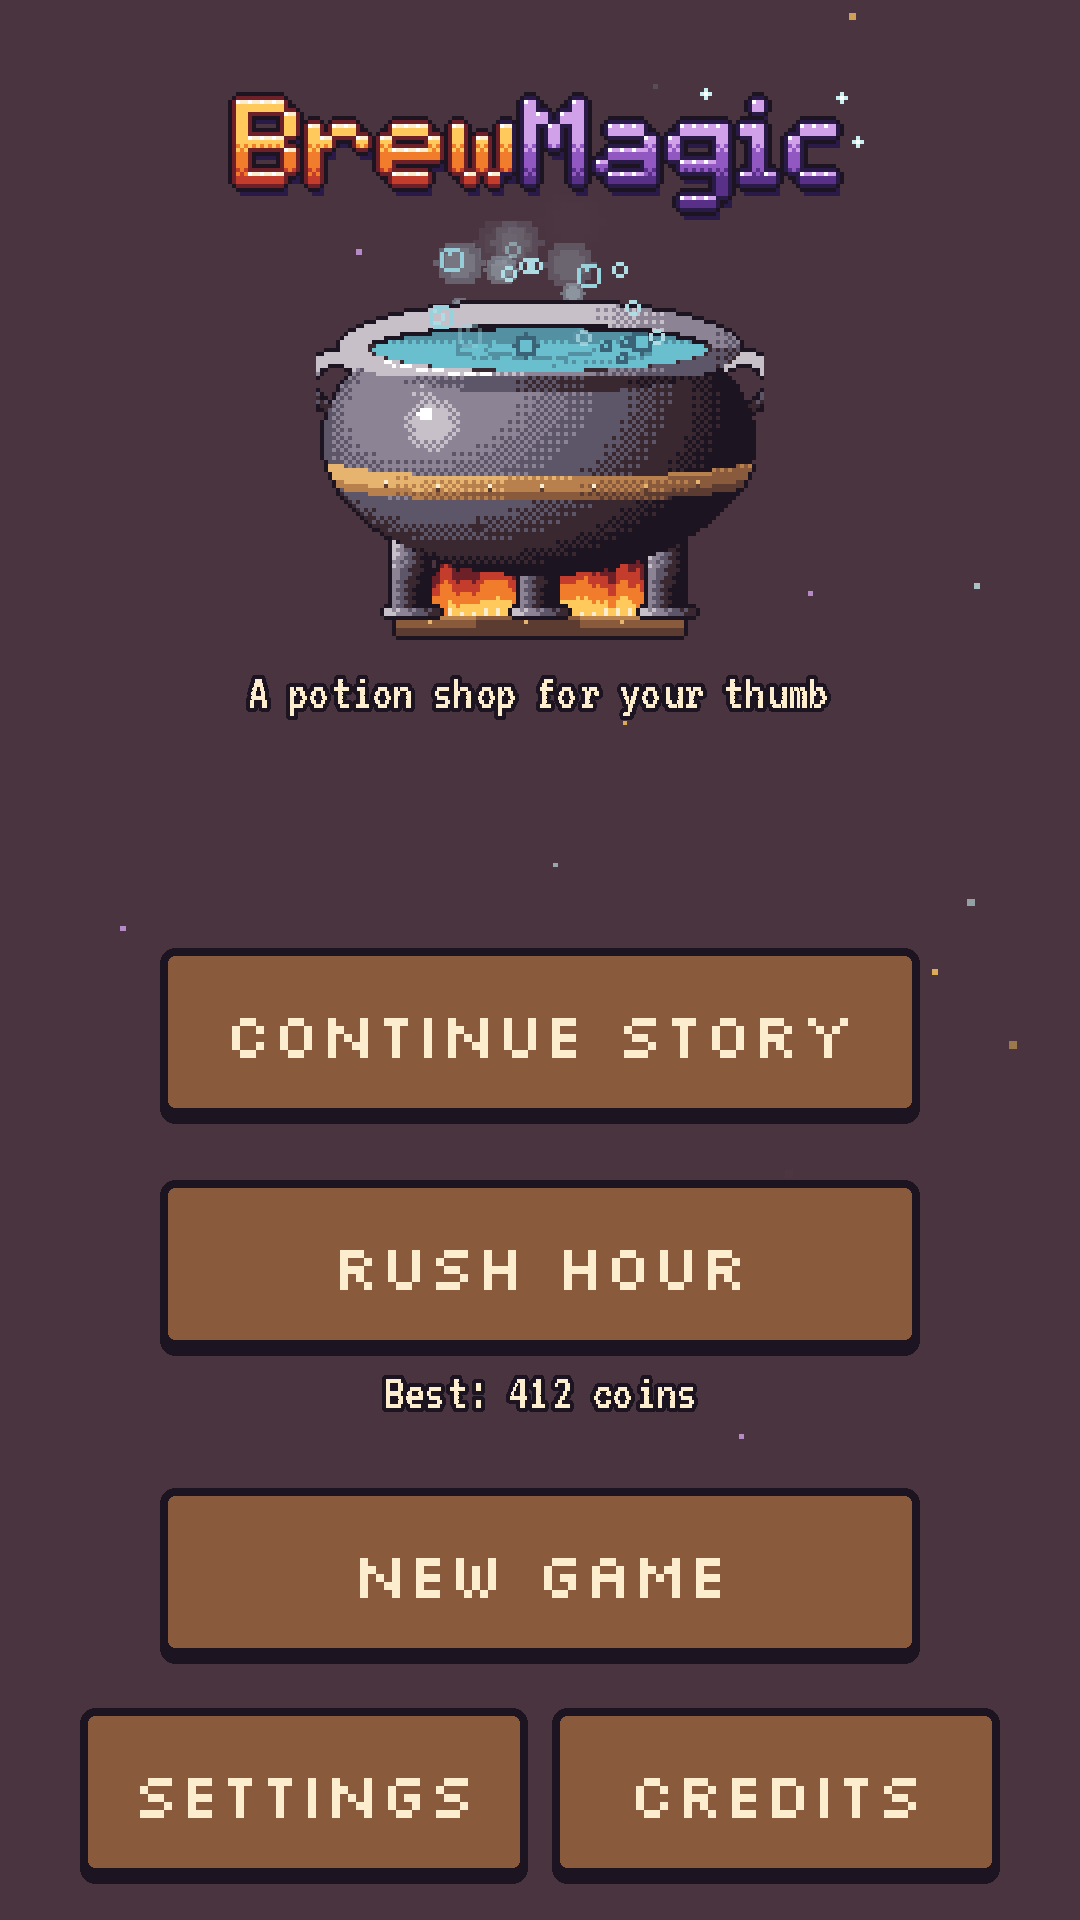
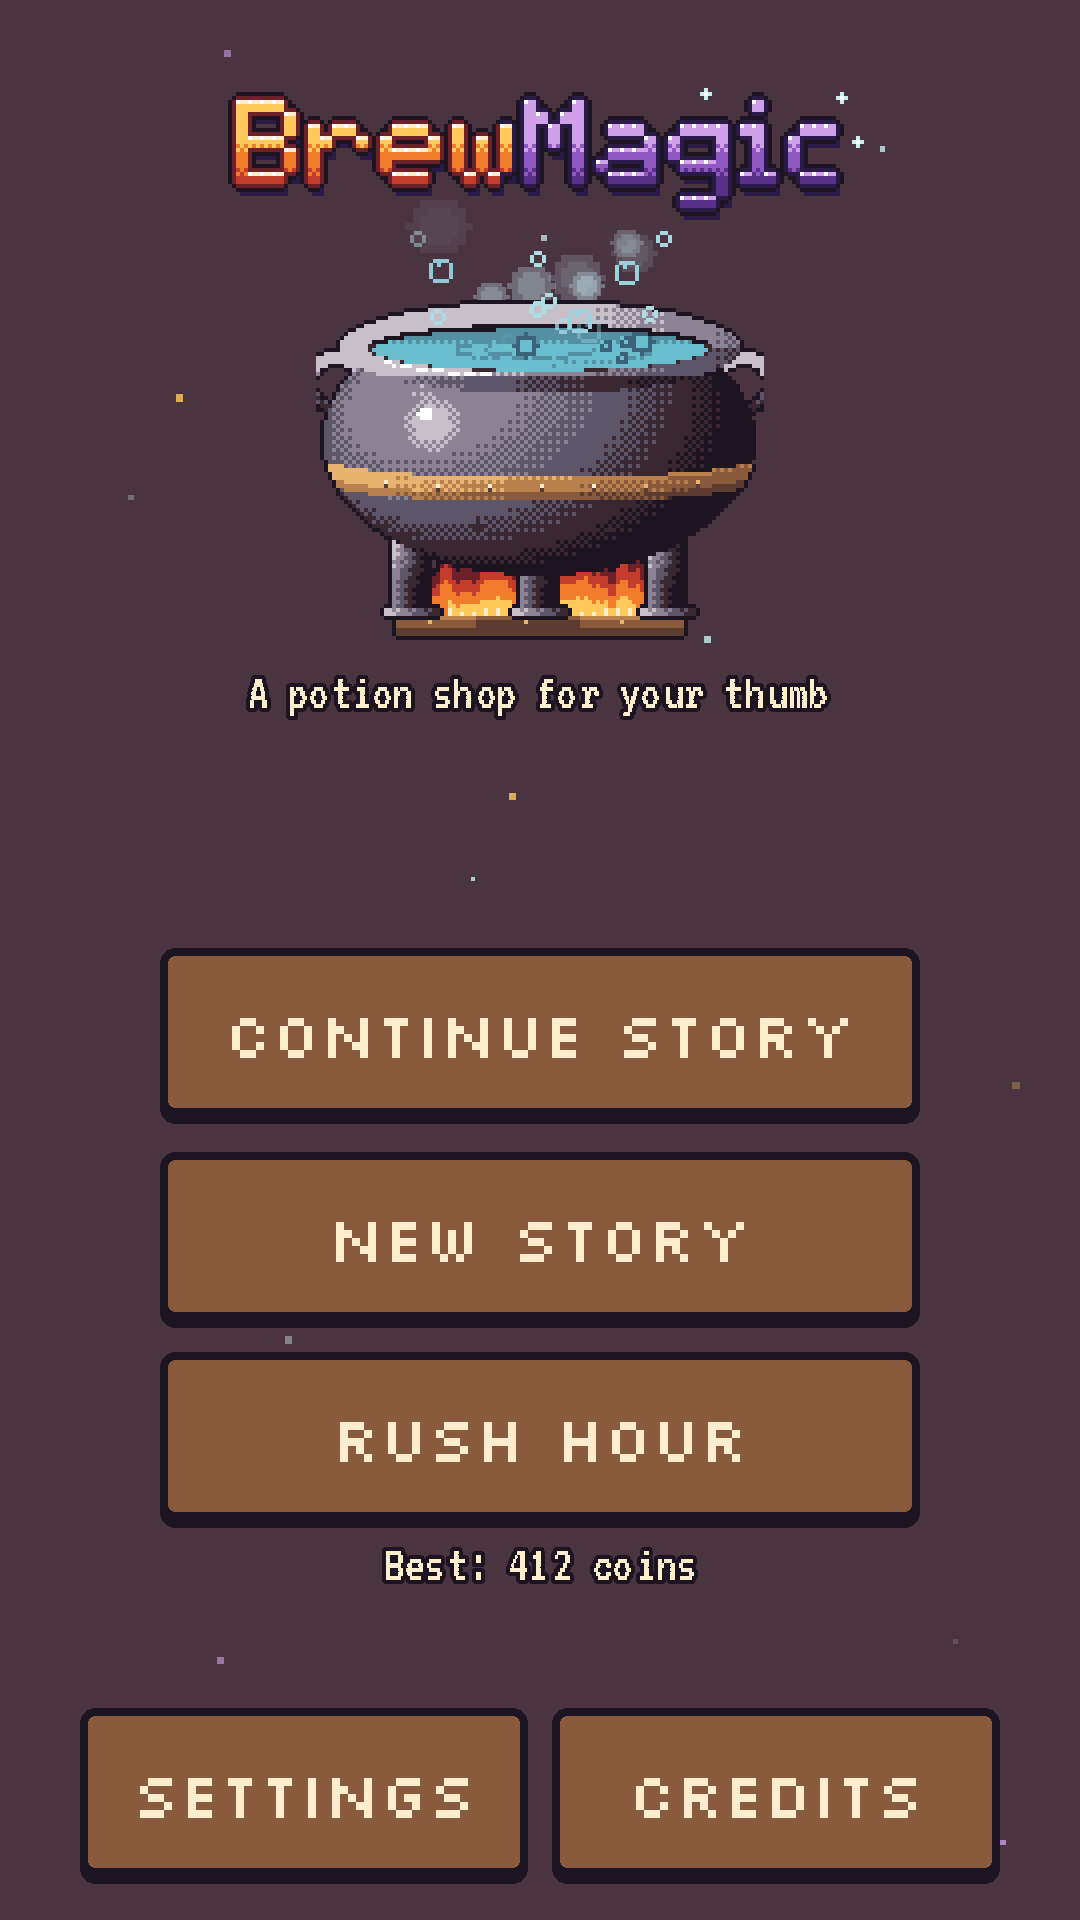
playtest: New story under Continue story, shorter credits, steadier day difficulty
- The title's "New game" reads "New story" and sits right under the
  story button; with no saved story Rush Hour moves up into its place.
- Credits drop the "Pixel art, sounds and music written as code" line.
- Days 3 and 4 played easier than day 2: the Mortar came on day 2 and
  five two-station potions after it, and independent weighted picks
  could draw a day of only easy recipes. The five two-station potions
  now come on day 2 and the Mortar (honeycomb, moonmoss, its upgrade) on
  day 3, and ordinary visitors are picked to bring each day's mean
  stations per customer to Difficulty.target_stations (rising over the
  story and with the level); a test checks no day is easier than the
  one before at a rising level.

Claude-Session: https://claude.ai/code/session_013fELLwf7CcjAy3ZJFqo4CJ

Changed region(s): [[0.1222, 0.5938, 0.8556, 0.875], [0.3972, 0.0938, 0.6111, 0.1875]]

diff --git a/brewmagic/data/SCHEMA.md b/brewmagic/data/SCHEMA.md
@@ -138,7 +138,7 @@ a story beat always pins its request (I13), so a story character's requests need
 | `starting_coins` | int | 0..9999 | **Day 1 only (required there, an error on other days).** |
 | `starting_stock` | object `{ingredient id: int 0..99}` | keys ⊆ ingredients unlocked on day 1 | **Day 1 only (required there, an error on other days).** Missing keys mean 0. |
 | `market` | object `{ingredient id: int 1..999}` | keys == exactly the ingredients with `unlock_day <= day` | **Days >= 2 only (required there, an error on day 1).** Prices in the market screen held the evening *before* this day, so the player shops for this day. The market sells any quantity. |
-| `customers` | array of object | non-empty | In arrival order. An entry with none of `archetype`, `potion`, `request`, `beat`, `lines` (only an optional `when`, e.g. `{}`) is an **ordinary visitor slot**: `Shift.story` fills it at the player's difficulty level with a potion of the day (the day's new potions first, in file order, then picks weighted by `Difficulty.potion_weight`), an ordinary archetype with a request for it and one of those requests (pinned, `Rush.visit`), from a generator seeded by the day and the level. |
+| `customers` | array of object | non-empty | In arrival order. An entry with none of `archetype`, `potion`, `request`, `beat`, `lines` (only an optional `when`, e.g. `{}`) is an **ordinary visitor slot**: `Shift.story` fills it at the player's difficulty level with a potion of the day (first the day's new potions no authored customer of the day asks for, in file order, then picks by `Difficulty.pick_for` that bring the day's mean stations per customer, authored customers included, to `Difficulty.target_stations(level, day)`: 2.4 on day 1, +1 by day 20, +0.5 per level), an ordinary archetype with a request for it and one of those requests (pinned, `Rush.visit`), from a generator seeded by the day and the level. |
 | `customers[].archetype` | string | archetype id | Required on every entry that is not a visitor slot. |
 | `customers[].potion` | string | potion id with `unlock_day <= day` | Required on every entry that is not a visitor slot. |
 | `customers[].request` | string | *optional*, request id | Pins the line. Its `potion` and `archetype` must equal the customer's. Absent: random, as above. Required on a story beat. |
@@ -210,7 +210,7 @@ One upgrade per station: exactly one entry for each of `"stir"`, `"pour"`, `"mor
   >= 3 requests. Every essence has >= 5 misbrews, each with its fixed effect.
   Every archetype has >= 3 lines for every grade. Visitor slots are exempt from the pair rule (their request is pinned). Potions with `unlock_day == 1` have `steps == ["stir", "pour"]`
   and day-1 ingredients have `grind == false` (day 1 teaches only Stir and Pour). At least one potion with
-  `unlock_day == 2` lists `"mortar"` (the Mortar is introduced on day 2). The Bellows first appears on day 6: at least
+  `unlock_day == 3` lists `"mortar"` (the Mortar is introduced on day 3, after a day 2 of five two-station potions). The Bellows first appears on day 6: at least
   one potion with `unlock_day == 6` lists `"bellows"`, none unlocked earlier does, and no ingredient unlocked before
   day 6 has `heat == true`.
 - **I11** Mortar consistency. A potion lists `"mortar"` in `steps` exactly when every exact recipe of it (2-3
@@ -241,8 +241,8 @@ One upgrade per station: exactly one entry for each of `"stir"`, `"pour"`, `"mor
 | frost_mint | 0,2,0,0 | 1 |  | 2 |
 | sunpetal | 0,0,2,0 | 1 |  | 2 |
 | nightshade_cap | 0,0,0,2 | 1 |  | 3 |
-| honeycomb | 1,0,2,0 | 2 |  | 4 |
-| moonmoss | 0,1,0,2 | 2 | grind | 4 |
+| honeycomb | 1,0,2,0 | 3 |  | 4 |
+| moonmoss | 0,1,0,2 | 3 | grind | 4 |
 | cinderroot | 3,0,0,0 | 6 | heat | 5 |
 | snowfire_pearl | 1,1,0,0 | 11 |  | 5 |
 | twilight_bloom | 0,0,1,1 | 12 |  | 5 |
@@ -252,13 +252,13 @@ One upgrade per station: exactly one entry for each of `"stir"`, `"pour"`, `"mor
 |---|---|---|---|---|
 | hearthglow_tonic | 2,0,2,0 | 1 | stir, pour | ember_pepper + sunpetal |
 | slumber_syrup | 0,2,0,2 | 1 | stir, pour | frost_mint + nightshade_cap |
-| valour_cordial | 2,1,0,2 | 2 | mortar, stir, pour | ember_pepper + moonmoss |
-| moonbloom_draught | 0,1,2,2 | 2 | mortar, stir, pour | sunpetal + moonmoss |
-| stillwater_draught | 0,4,0,0 | 3 | stir, pour | frost_mint + frost_mint |
-| dewdrop_balm | 0,2,2,0 | 3 | stir, pour | frost_mint + sunpetal |
-| nightfire_punch | 2,0,0,2 | 4 | stir, pour | ember_pepper + nightshade_cap |
-| greenthumb_syrup | 0,0,4,0 | 4 | stir, pour | sunpetal + sunpetal |
-| nocturne_syrup | 0,0,0,4 | 4 | stir, pour | nightshade_cap + nightshade_cap |
+| valour_cordial | 2,1,0,2 | 3 | mortar, stir, pour | ember_pepper + moonmoss |
+| moonbloom_draught | 0,1,2,2 | 3 | mortar, stir, pour | sunpetal + moonmoss |
+| stillwater_draught | 0,4,0,0 | 2 | stir, pour | frost_mint + frost_mint |
+| dewdrop_balm | 0,2,2,0 | 2 | stir, pour | frost_mint + sunpetal |
+| nightfire_punch | 2,0,0,2 | 2 | stir, pour | ember_pepper + nightshade_cap |
+| greenthumb_syrup | 0,0,4,0 | 2 | stir, pour | sunpetal + sunpetal |
+| nocturne_syrup | 0,0,0,4 | 2 | stir, pour | nightshade_cap + nightshade_cap |
 | steamwhistle_tonic | 3,2,0,0 | 6 | bellows, stir, pour | frost_mint + cinderroot |
 | bonfire_tonic | 5,0,0,0 | 6 | bellows, stir, pour | ember_pepper + cinderroot |
 | smoulder_syrup | 3,0,0,2 | 7 | bellows, stir, pour | nightshade_cap + cinderroot |
@@ -275,7 +275,7 @@ the steps stay those of the potion. The day-1 ingredients each sum to 2, so on d
 pick gives Meh or Misbrew, never Good. Later ingredients sum to 2 or 3, so near misses become possible (for Valour
 Cordial, ember_pepper + nightshade_cap is Good).
 
-The unlocks are paced over the 20 days: day 2 the Mortar (honeycomb, moonmoss), days 3-4 the simple potions, day 6 the
+The unlocks are paced over the 20 days: day 2 the five two-station potions, day 3 the Mortar (honeycomb, moonmoss, its upgrade), day 6 the simple potions, day 6 the
 Bellows (cinderroot, its upgrade on sale from then), day 7 the hardest fire potions, days 11-13 one rare ingredient each
 (snowfire pearl, twilight bloom, starlight dew) with their potions. Rush Hour's waves follow (`Rush.WAVE_DAYS`
 1, 4, 7, 13).
